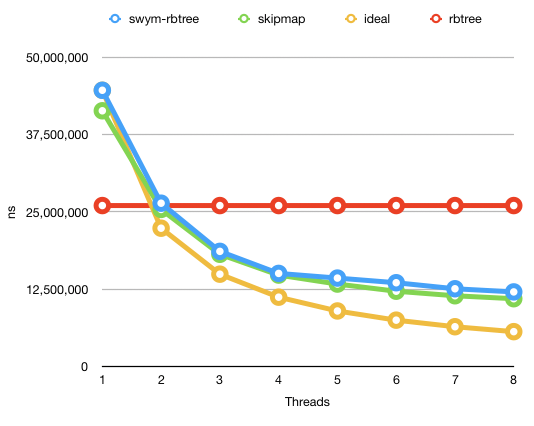
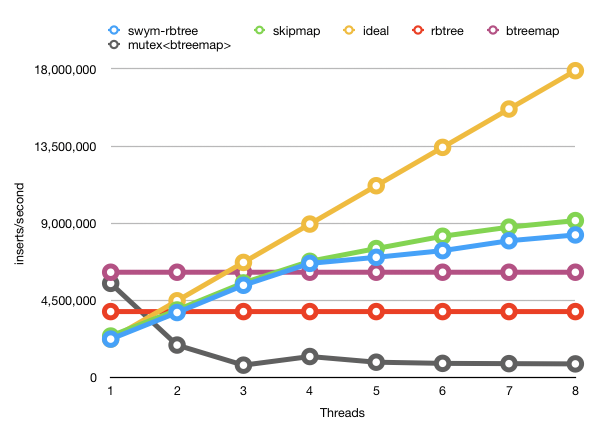
better benchmarking/more

diff --git a/info/rbtree.md b/info/rbtree.md
@@ -11,9 +11,16 @@ Benchmarks run using jemallocator on macos sierra and `-Ctarget-cpu=native`. Ben
   L3 Cache:	8 MB
 ```
 
-These benchmarks compare the transactional `swym-rbtree` vs the lock-free crossbeam skipmap vs the singlethreaded `rbtree`. Skipmaps and rbtrees are fundamentally different data structures with different tradeoffs, but there's not many options for concurrent sorted containers in rust for comparison.
+These benchmarks compare
+ - the transactional `swym-rbtree`
+ - the lock-free crossbeam skipmap
+ - the single threaded `rbtree`
+ - single threaded `BTreeMap`
+ - Mutex/RwLock wrapped `BTreeMap`
 
-"Ideal" is calculated based on `swym-rbtree`'s single threaded runtime, then dividing by the number of threads.
+Skipmaps and rbtrees are fundamentally different data structures with different tradeoffs, but there's not many options for concurrent sorted containers in rust for comparison.
+
+"Ideal" is calculated based on `swym-rbtree`'s single threaded ops/sec, then multiplying by the number of threads.
 
 ### Insert 100,000 Random Values
 
